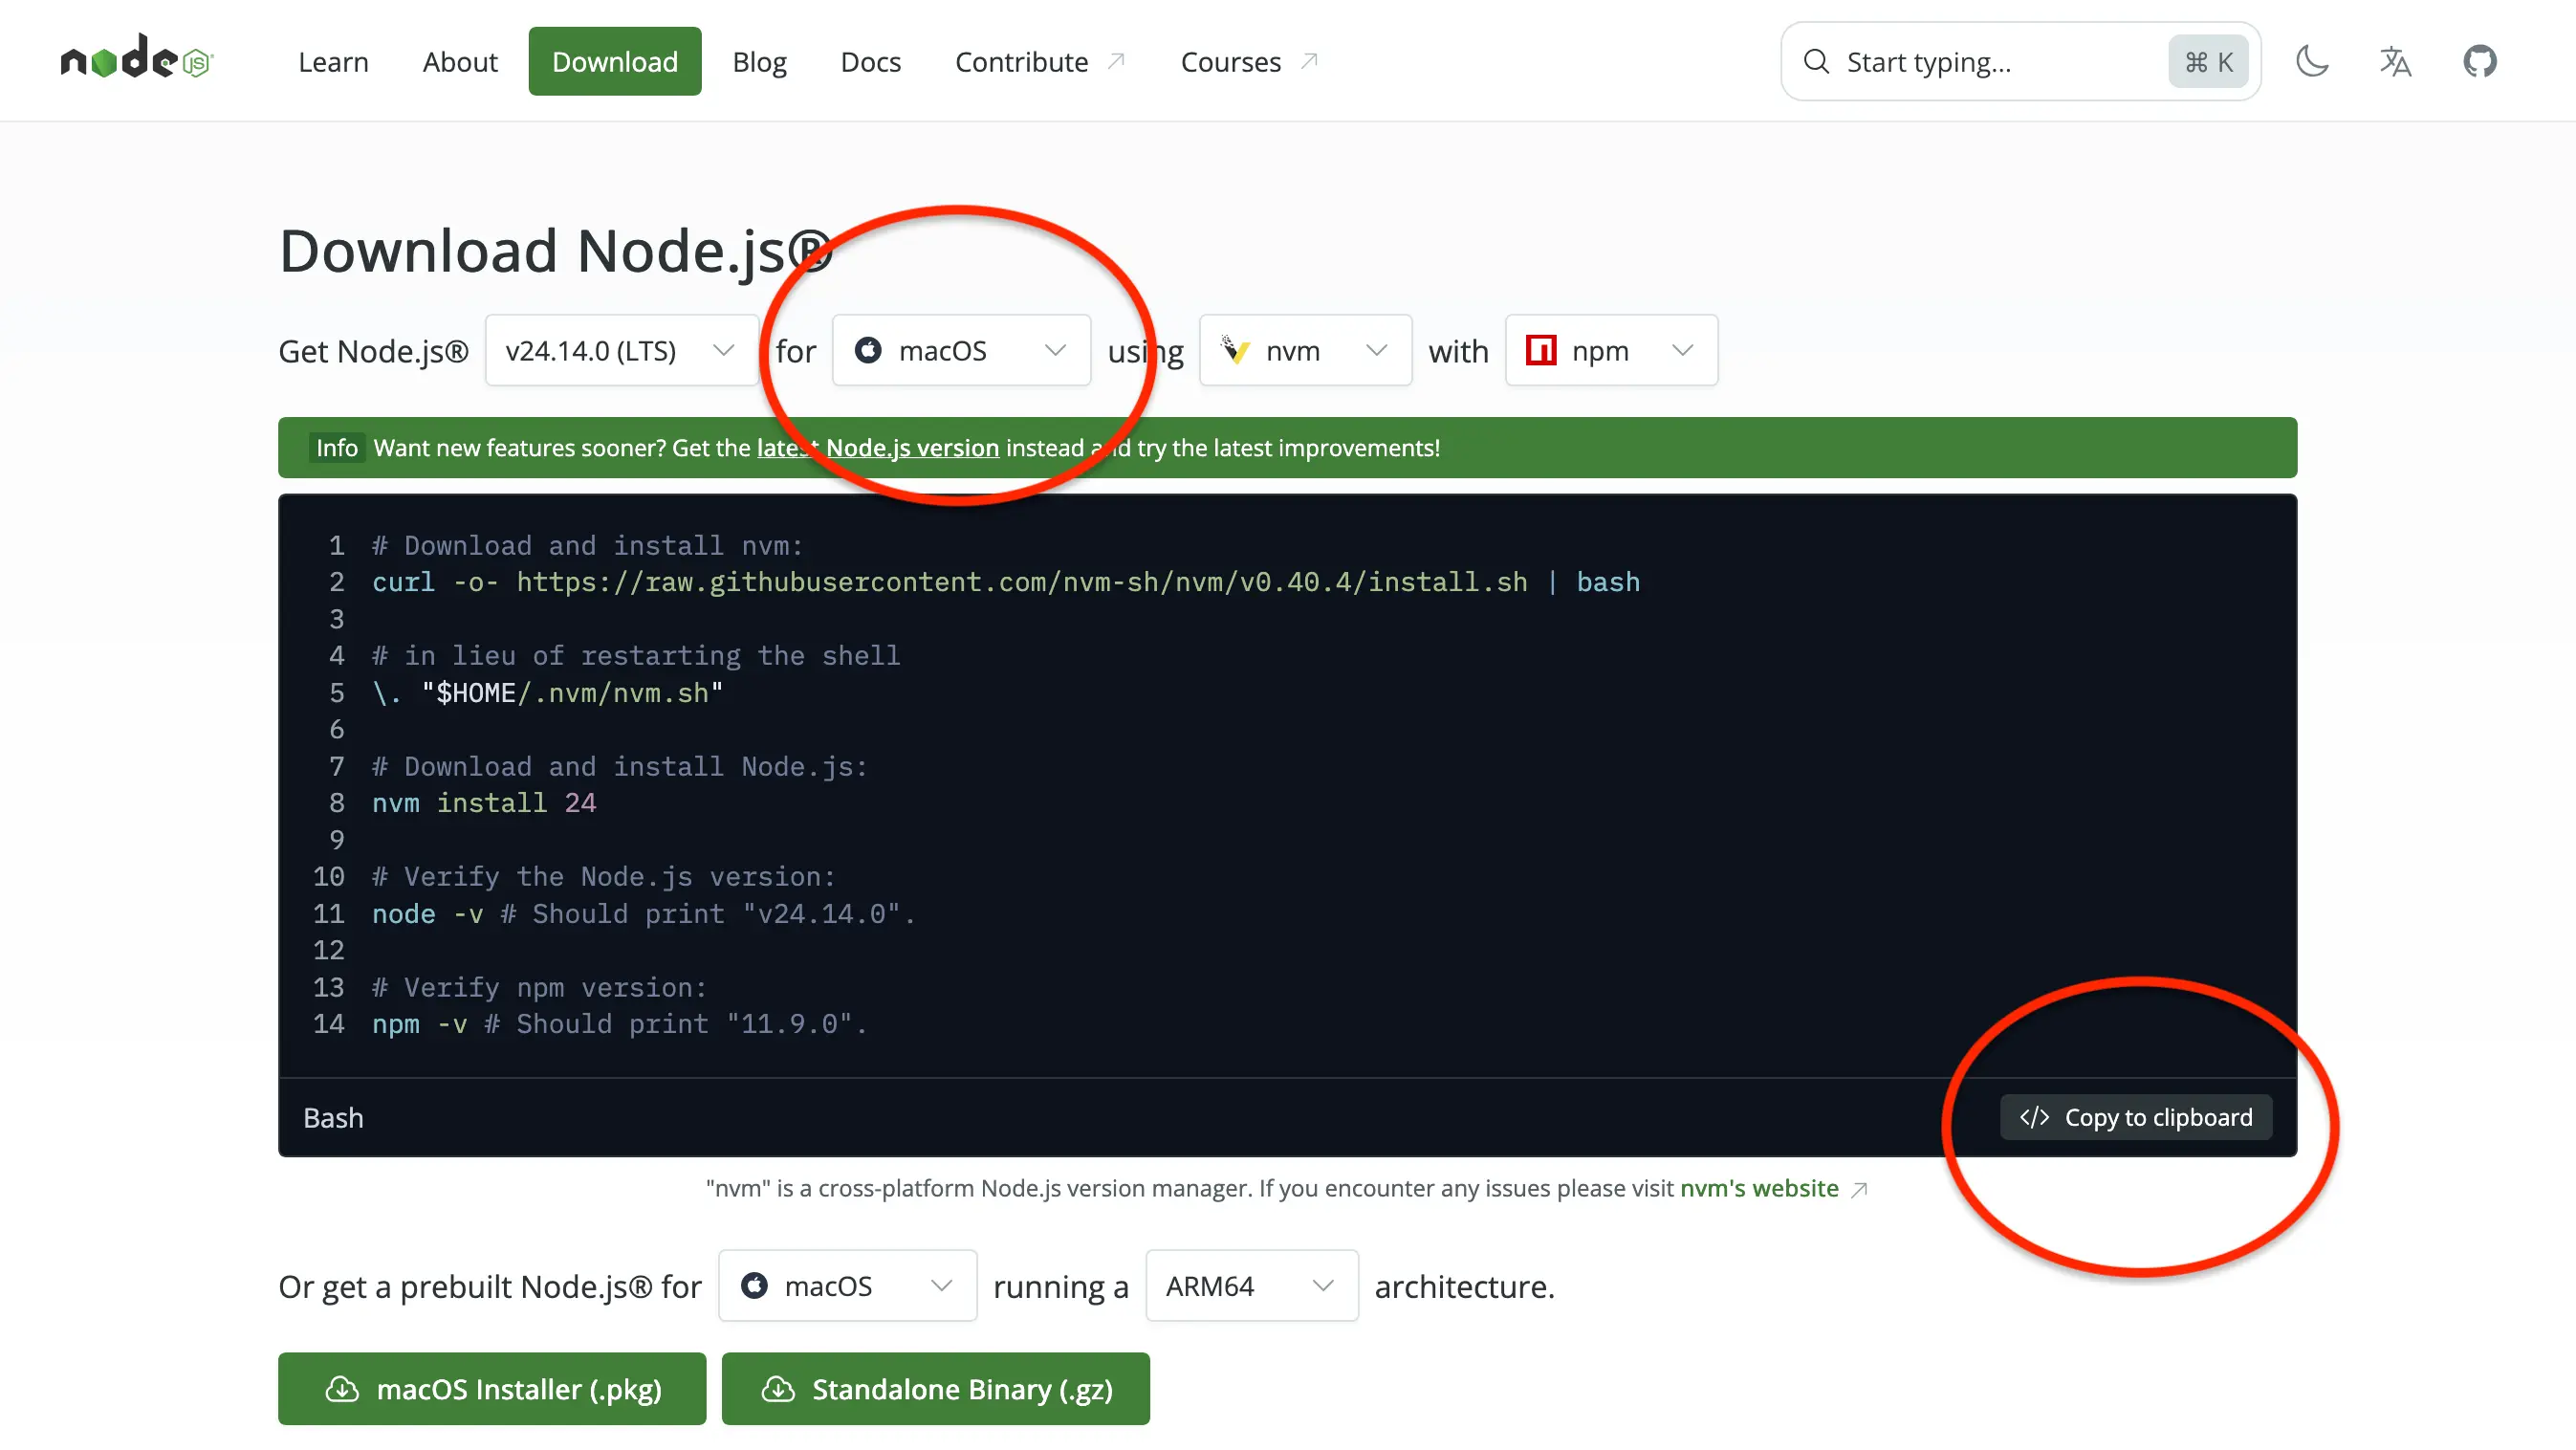
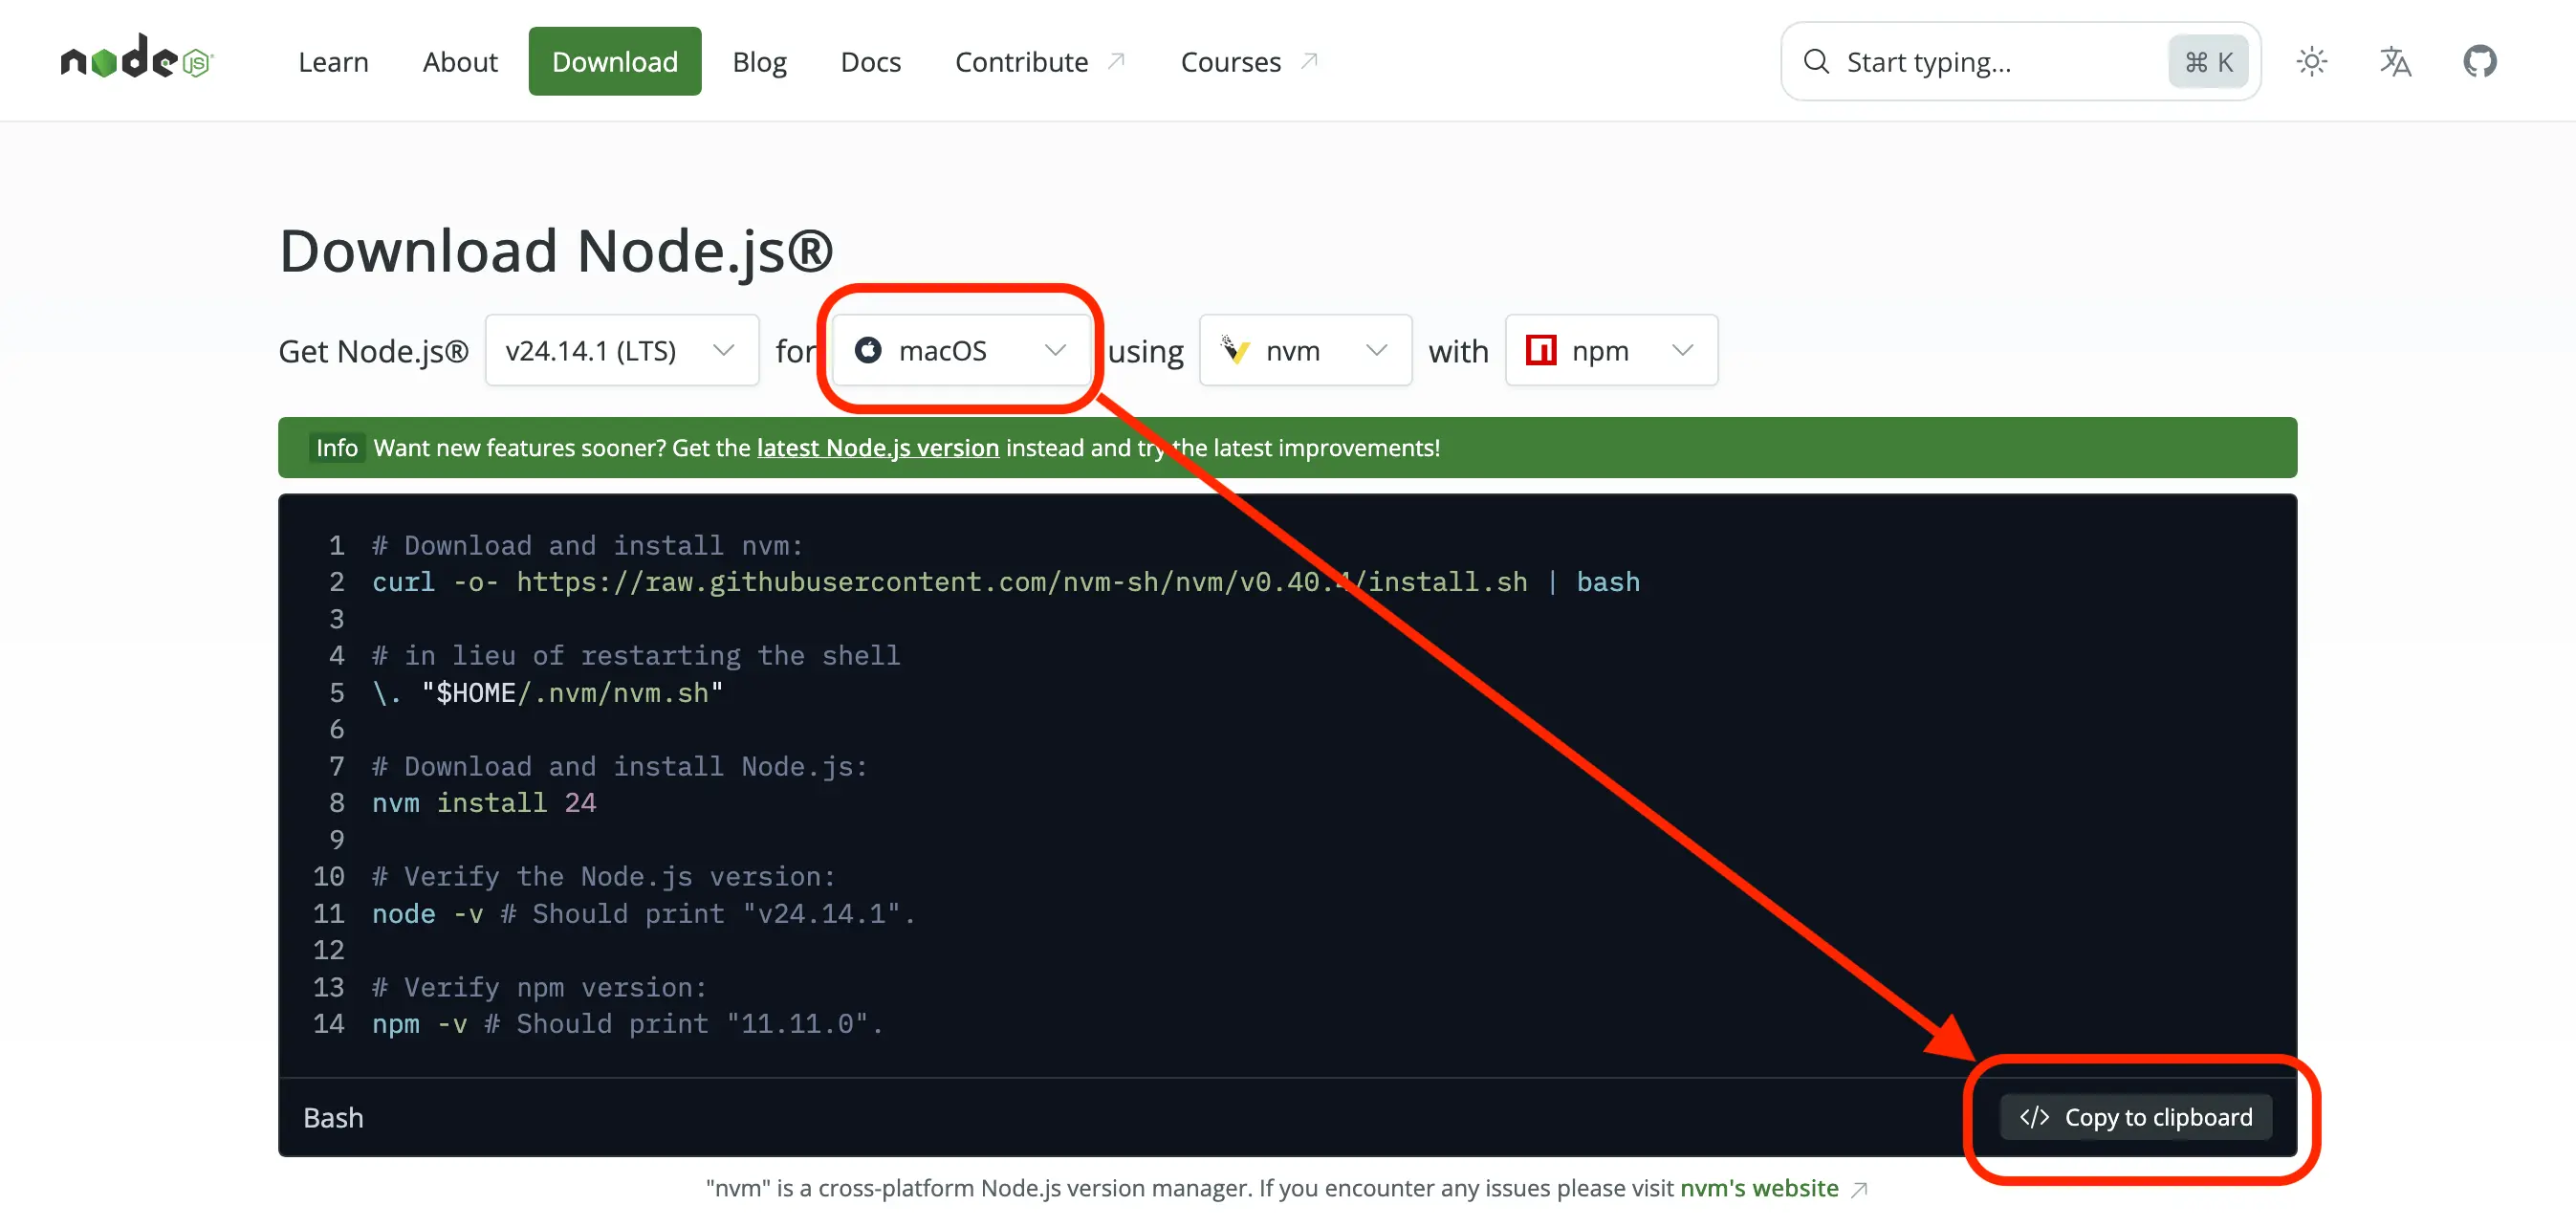
in progress first lesson

diff --git a/sources/academy/platform/scraping_with_apify_and_ai/01_creating_actor.md b/sources/academy/platform/scraping_with_apify_and_ai/01_creating_actor.md
@@ -5,7 +5,7 @@ slug: /scraping-with-apify-and-ai/creating-actor-with-ai-chat
 unlisted: true
 ---
 
-**In this lesson, we'll use ChatGPT and a few commands to create an app for tracking prices on an e-commerce website.**
+**In this lesson, we'll use ChatGPT and the Apify platform to create an app for tracking prices on an e-commerce website.**
 
 ---
 
@@ -24,7 +24,7 @@ which contains:
 
 Try it! While the code generated will most likely work out of the box, the resulting program will have a few caveats. Some are usability issues:
 
-- _User-operated:_ We have to run the scraper ourselves. If we're tracking price trends, we'd need to remember to run it daily. And if we want alerts for big discounts, manually running the program isn't much better than just checking the site in a browser every day.
+- _User-operated:_ We have to run the scraper ourselves. If we're tracking price trends, we'd need to remember to run it daily. If we want, for example, alerts for big discounts, manually running the program isn't much better than just checking the site in a browser every day.
 - _Manual data management:_ Tracking prices over time means figuring out how to organize the exported data ourselves. Processing the data could also be tricky since different analysis tools often require different formats.
 
 Some are technical challenges:
@@ -32,7 +32,67 @@ Some are technical challenges:
 - _No monitoring:_ Even if we knew how to set up a server or home installation so our scraper runs regularly, we'd have little insight into whether it ran successfully, what errors or warnings occurred, how long it took, or what resources it used.
 - _Anti-scraping risks:_ If the target website detects our scraper, they can rate-limit or block us. Sure, we could run it from a coffee shop's Wi-Fi, but eventually they'd block that too, and we'd seriously annoy our barista.
 
-To overcome these limitations, we'll use [Apify](https://apify.com/), a platform where our scraper can run independently of our computer. Apify expects our code to be structured as an Actor, so the setup is a bit heavier at first. But it pays off quickly - once we're ready, deploying to the platform is almost just one command.
+To overcome these limitations, we'll use [Apify](https://apify.com/), a platform where our scraper can run independently of our computer.
+
+## Creating Apify account
+
+First, let's [create a new Apify account](https://console.apify.com/sign-up). The registration will put us through a few checks to confirm we're human and our email is valid – annoying but necessary to prevent abuse of the platform.
+
+Once we have an active account, we can start working on our scraper. Using the platform's resources costs money, but worry not, everything we cover here fits within [Apify's free tier](https://apify.com/pricing).
+
+## Creating an Actor
+
+Your phone runs apps, Apify runs Actors. If we want Apify to run something for us, it must be wrapped in the Actor structure. Conveniently, the platform provides ready-made templates we can use.
+
+After login, you land on a page called **Apify Store**. Apify serves both as an infrastructure to privately deploy and run own scrapers, and as a marketplace, where anyone can offer their ready scrapers to others for rent. But let's hold off on exploring Apify Store for now. We'll go to **Actors**:
+
+![Welcome screen](images/apify-goto-actors.webp)
+
+In **Actors**, we'll choose **Develop a new Actor**:
+
+![New Actor screen](images/apify-goto-develop.webp)
+
+Apify supports several ways how to start a new project. We'll navigate through the screen to select the **Quick start: Crawlee + Cheerio (JavaScript)** code template:
+
+![Template selection screen](images/apify-goto-template.webp)
+
+This opens a preview of the template, where we'll confirm our choice:
+
+![Template preview screen](images/apify-use-template.webp)
+
+And just like that, we have our first Actor! It's only a sample scraper which walks through the apify.com website and extracts page titles, but something we can already run and it'll work.
+
+## Running an Actor
+
+The Actor's detail page has a plethora of tabs and settings, but for now we'll stay at **Source > Code**. That's where the **Web IDE** is.
+
+IDE stands for _integrated development environment_. Fear not, it's just a jargon for ‘an app for editing code, somewhat comfortably’. In the Web IDE, we can select files the Actor is made of, read and change their contents.
+
+![Web IDE](images/apify-web-ide.webp)
+
+We won't be changing anything for now. First let's try whether the Actor works. We'll hit the **Build** button, which tells the platform to take all the files and compose a program we can then run.
+
+The _build_ takes approximately one minute to finish. When done, the button becomes a **Start** button. Finally, we are ready. Let's press it.
+
+The scraper starts running and we'll have to wait another moment until the first rows start to appear in the output table.
+
+![Actor output](images/apify-output.webp)
+
+In the end, we should end up with around 100 results which we can immediately export to several formats suitable for data analysis, including CSV, which MS Excel or Google Sheets can open.
+
+![It ain't much, but it's honest work](images/honest-work.webp)
+
+## TODO
+
+Of course, page titles are not very useful, so let's change the scraper to an e-commerce prices tracker.
+
+
+
+
+
+---
+
+Apify expects our code to be structured as an Actor, so the setup is a bit heavier at first. But it pays off quickly - once we're ready, deploying to the platform is almost just one command.
 
 First, we'll use a few commands to set up an Actor template, and then we'll prompt ChatGPT to generate the code for scraping that Sales page.
 